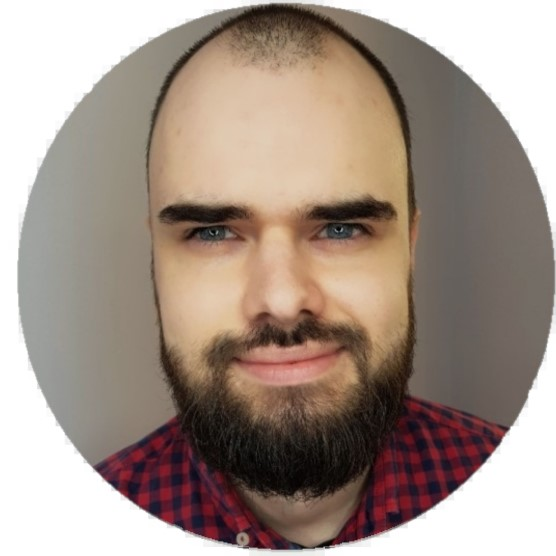
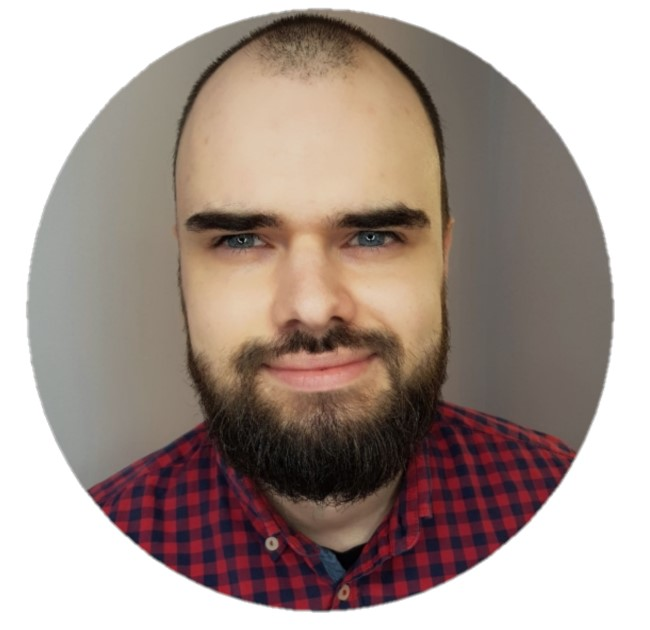
Updating photo and position describe

diff --git a/src/components/CV.js b/src/components/CV.js
@@ -21,6 +21,7 @@ export default class CV extends React.Component {
                             <Umiejetnosci />
                             <Portfolio />
                             <DodatkoweUmiejetnosci />
+                            {/* <p>*Wyrażam zgodę na przetwarzanie i przechowywanie moich danych osobowych przez Career Hub Ltd z siedzibą w Londynie (20-22 Wenlock Road, N1 7GU) oraz jej zaufanych partnerów biznesowych, w celu przeprowadzenia aktualnych i przyszłych procesów rekrutacyjnych. Moja zgoda na przetwarzanie danych jest ważna do odwołania.</p> */}
                         </div>
                     </div>
                 </div>

diff --git a/src/App.css b/src/App.css
@@ -62,8 +62,8 @@
   margin-top: 10px;
   margin-left: 10px;
   margin-right: 10px; 
-  width: 78%;
-  height: 93%; 
+  width: 100%;
+  height: 99%; 
 }
 
 .na_srodku{
